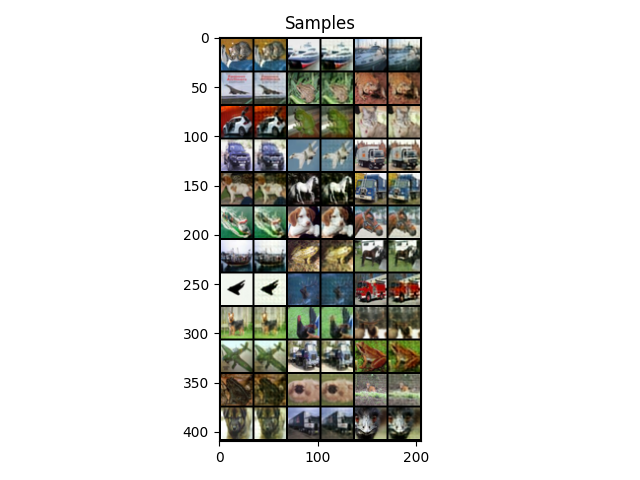
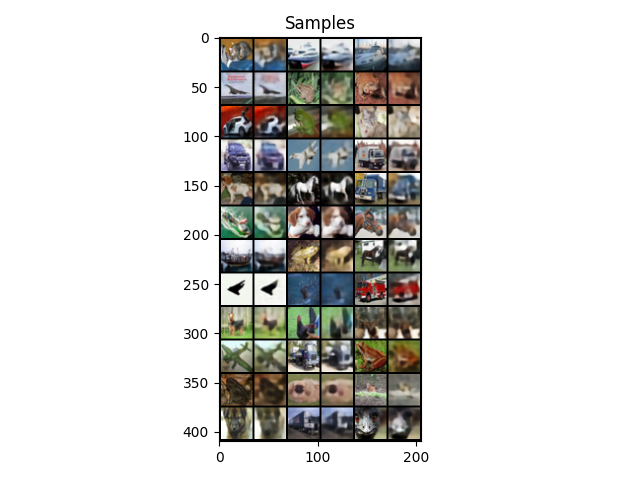
debug vae loss function

diff --git a/hw2/src/vae/train.py b/hw2/src/vae/train.py
@@ -24,6 +24,7 @@ def ae_loss(model, x):
     #predict output
     z = model.encoder(x)
     x_pred = model.decoder(z)
+    
     #compute loss
     loss = torch.mean((x_pred - x)**2)
     
@@ -52,18 +53,23 @@ def vae_loss(model, x, beta = 1):
     x_pred = model.decoder(z)
     
     #compute reconstruction loss
-    recon_loss = torch.mean((x_pred - x)**2)
+    recon_loss = torch.sum((x_pred - x)**2)
+    recon_loss = recon_loss/(1024*x.size(0))
     
     #compute kl loss
-    kl_loss = 0.5*(-1-torch.log(std**2) + mu**2 + std**2)
-    kl_loss = kl_loss.sum()/mu.size(0)
+    kl_loss = -0.5*torch.sum(1 + 2*log_std - mu**2 - std**2)
+    kl_loss = kl_loss/(1024*x.size(0))
     
     #compute total loss
-    total_loss = recon_loss + beta*kl_loss
+    total_loss = recon_loss + kl_loss
     
-    print("total = {}, recon = {}, kl = {}".format(total_loss.cpu().item(), \
-                                                recon_loss.cpu().item(), \
-                                                kl_loss.cpu().item()))
+    # print("total = {}, recon = {}, kl = {}".format(total_loss.cpu().item(), \
+    #                                             recon_loss.cpu().item(), \
+    #                                             kl_loss.cpu().item()))
+    
+    # print("mu = ", mu[::100])
+    # print("std = ", std[::100])
+    # print('#######')
     
     return total_loss, OrderedDict(recon_loss=recon_loss, kl_loss=kl_loss)
 
@@ -123,7 +129,7 @@ def main(log_dir, loss_mode = 'vae', beta_mode = 'constant', num_epochs = 20, ba
     train_loader, val_loader = get_dataloaders()
 
     variational = True if loss_mode == 'vae' else False
-    model = AEModel(variational, latent_size, input_shape = (3, 32, 32)).to("mps") #MY IMPLEMENTATION
+    model = AEModel(variational, latent_size, input_shape = (3, 32, 32)).to("cuda") #MY IMPLEMENTATION
     optimizer = optim.Adam(model.parameters(), lr=lr)
 
     vis_x = next(iter(val_loader))[0][:36]

diff --git a/hw2/src/vae/utils.py b/hw2/src/vae/utils.py
@@ -37,7 +37,7 @@ def get_dataloaders(batch_size = 256):
 
 def preprocess_data(x):
     x = 2*x - 1
-    return x.to('mps') #MY IMPLEMENTATION
+    return x.to('cuda') #MY IMPLEMENTATION
 
 def avg_dict(all_metrics):
     keys = all_metrics[0].keys()
@@ -59,7 +59,7 @@ def save_samples(samples, fname, nrow=6, title='Samples'):
 def vis_samples(model, _file, num_samples = 49):
 
     with torch.no_grad():
-        z = torch.randn(num_samples, model.latent_size).to("mps")
+        z = torch.randn(num_samples, model.latent_size).to("cuda")
         samples = torch.clamp(model.decoder(z), -1, 1)
 
     samples = samples.cpu().permute(0, 2, 3, 1).numpy() * 0.5 + 0.5

diff --git a/hw2/src/vae/README.md b/hw2/src/vae/README.md
@@ -21,7 +21,7 @@ python train.py --log_dir ae_latent1024 --loss_mode ae --latent_size 1024
 *2.6*. Train the VAE for 20 epochs. Use the latent size from 2.3 that produces the sharpest reconstructions.
 Commands:
 ```
-python train.py --log_dir vae_latent_rep --loss_mode vae --latent_size <>
+python train.py --log_dir vae_latent_rep --loss_mode vae --latent_size 1024
 ```
 
 *2.7*. The blurriness of the samples can be reduced by tuning the value of beta. Use the latent size from 2.3 that produces the sharpest reconstructions.
